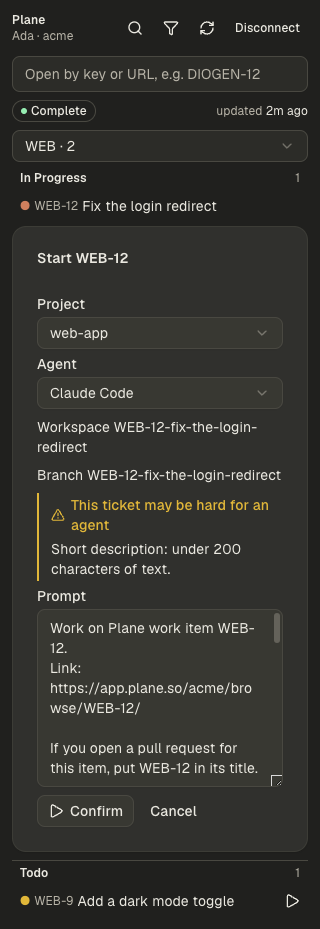
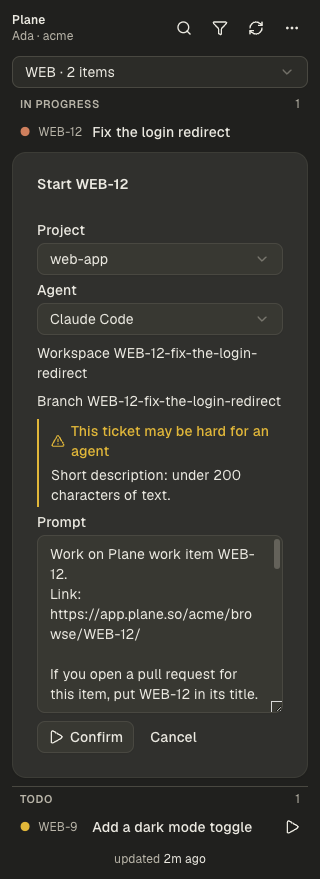
Compact panel: design, proposal and README follow the mockup layout; re-shot screenshots (#66)
design.md P1, P2, P5-P9 and the risks, proposal.md and tasks.md describe the
layout of c4f24e8: Open by key or URL and Disconnect behind the header's ⋯,
the agent state as the row's icon and the detail's Agent field, completeness
named once, the key column, and the detail without the list header. The
README key features and screenshot captions follow; the three README
screenshots are re-shot (dark, 320 px).

diff --git a/openspec/changes/compact-panel-layout/design.md b/openspec/changes/compact-panel-layout/design.md
@@ -1,20 +1,20 @@
 ## Context
 
-The panel layout is design D10 of `add-plane-work-items` (archived 2026-11-17). Issue #66 replaces most of it with the layout the maintainer chose on 2026-11-19. Orca's components panel API sets the limits: no custom CSS, five tones, a pressable `ListItem` cannot hold other controls, a `Box` cannot be pressed, and `Text` has three sizes.
+The panel layout is design D10 of `add-plane-work-items` (archived 2026-11-17). Issue #66 replaces most of it with the layout the maintainer chose on 2026-11-19: mockup A for the list and mockup B for the detail, followed point by point within Orca's components. Orca's components panel API sets the limits: no custom CSS, five tones, a pressable `ListItem` cannot hold other controls, a `Box` cannot be pressed, `Text` has three sizes and no monospace face, `KeyValue` takes only text, and only `danger` colours a button.
 
 ## Goals / Non-Goals
 
 **Goals:** one line per item at sidebar width; a project switcher that never wraps; search and tag filter out of the way until asked for; a detail whose actions sit above the description.
 
-**Non-Goals:** new data (no Plane request is added or changed); new filters; moving the "Open by key or URL" field.
+**Non-Goals:** new data (no Plane request is added or changed); new filters.
 
 ## Decisions
 
 ### P1. Header
-`Plane` and the muted `user · slug` on the left. On the right, on the list: icon buttons Search (`search`), Filter (`filter`) and Refresh (`refresh`), then the Disconnect button. The detail shows only Refresh and Disconnect: Search and Filter act on the list. The Search and Filter icons are named "Show search" / "Hide search" and "Show filters" / "Hide filters" by what they do; the search field keeps the name "Search". An icon whose part is shown is drawn `outline`, otherwise `ghost`.
+`Plane` and the muted `user · slug` on the left. On the right: icon buttons Search (`search`), Filter (`filter`), Refresh (`refresh`) and `⋯` (`more`). The `⋯` toggle shows, under the header, the "Open by key or URL" field, its refusal, and a small ghost Disconnect button; that part stays shown while the field holds text or a refusal. The toggles are named by what they do ("Show search" / "Hide search", "Show filters", "Show actions"); the search field keeps the name "Search". A toggle whose part is shown is drawn `outline`, otherwise `ghost`; one whose part holds a value is disabled, since pressing it could not hide the part. The detail has no list header (P9).
 
 ### P2. Project picker
-One `Select` named "Plane project" (the label is hidden; "Project" is the Orca project of a Start). Options are the projects with listed items, ordered by name, each `<PREFIX> · <n>`, where n counts the project's items that pass the search and the tags. The value, its persistence (`plane.tab`) and the fallback to the first project are those of D10's tabs; only the control changes. A `Select` never wraps, and the count stays visible in the closed picker.
+One `Select` named "Plane project" (the label is hidden; "Project" is the Orca project of a Start). Options are the projects with listed items, ordered by name, each `<PREFIX> · <n> items` (`1 item`), where n counts the project's items that pass the search and the tags. The value, its persistence (`plane.tab`) and the fallback to the first project are those of D10's tabs; only the control changes. A `Select` never wraps, and the count stays visible in the closed picker.
 
 ### P3. Search behind its icon
 The search field shows while the Search icon is toggled on or while the field holds text, so a remembered search is never hidden. The toggle lives in the panel run only. Hiding the field does not clear the text.
@@ -23,25 +23,27 @@ The search field shows while the Search icon is toggled on or while the field ho
 The Filter icon shows a strip of tags under the search: the priorities present in the loaded list (urgent, high, medium, low; none has no tag), then its labels by name, plus any active tag no longer present, so a remembered tag can always be turned off. The list is the whole loaded list, not the selected project, as the filter applies to every project. The strip stays shown while a tag is active. A tag keeps D10's look (a ghost button in a rounded box outlined in its tone, the priority's tone or grey for labels); an active one is filled (its tone, or `accent` for a grey label, since a `muted` fill did not show against the panel, #64) and carries a check icon, which reads as active in both themes whatever the tone.
 
 ### P5. State groups
-A plain header line per state, the state's name in `xs` semibold and its count muted on the right, and a `Separator` between groups. The order is D10's. Groups no longer collapse: the rows are one line each, so a group is short, and a collapsed group hid items without a filter saying so.
+A plain header line per state: the state's name as a level-3 `Heading`, which Orca draws small, upper case and muted, and its count muted on the right; a `Separator` between groups. The order is D10's. Groups no longer collapse: the rows are one line each, so a group is short, and a collapsed group hid items without a filter saying so.
 
 ### P6. One-line row
-A `List` per row holding one pressable `ListItem` (keyed by the item's key) that opens the item, and beside it, outside it, the Start / Open workspace icon button (D10). Inside the `ListItem`, one line: the priority dot `●` in its tone (`○` muted for none), the key in `xs` muted text, the title truncated, then the "Start failed" and agent badges when they apply. Orca has no monospace `Text`; `Code` draws a chip, too heavy for every row, so the key is plain muted text. The row no longer shows its labels or update time: both are in the detail, and the labels are in the filter strip.
+A `List` per row holding one pressable `ListItem` (keyed by the item's key) that opens the item, and beside it, outside it, the Start / Open workspace icon button (D10). Inside the `ListItem`, one line: the priority dot `●` in its tone (`○` muted for none), the key in `xs` muted text in a column as wide as the longest key, and the title in `sm` medium weight, truncated. Orca has no monospace `Text`, and `Code` draws a chip too heavy for every row, so the column is sized at about 7 px a character of the longest key (a `limit:` in the code). The row carries no badges, labels or update time: the labels and update time are in the detail and the labels in the filter strip; the agent state and a failed Start are the icon (P7).
 
-### P7. Agent badge names the agent
-"Agent working", "Agent needs input", "Agent done", tones unchanged. The bare "Done" read as the item's Plane state next to its state group (#62). The wording is the option #62 suggested.
+### P7. Agent state as the row's icon
+The workspace icon of a linked row shows the agent's state: `agent` (working, neutral), `bell` (needs input, warning), `check` (done, success), else `open-external`. It is named "Open workspace · Agent working", "· Agent needs input" or "· Agent done", so the state reads as the agent's, not the item's Plane state (#62). A failed Start draws a danger `warning` icon instead ("Start failed · Start again", or "Open workspace · The agent did not start" when its workspace exists). The detail shows the state as its "Agent" field (P9). A badge on the row left the title two or three words at sidebar width.
 
 ### P8. Completeness named once
-The status line keeps the badge and the update time. The banner of a partial, stale or failed list repeated the badge in its title (#63). A `Callout` without a title still draws Orca's own ("Warning"), so the reason becomes one line of `sm` text in the warning or danger tone.
+No completeness badge. The list shows "updated <relative time>", centred at the bottom, whenever it has data; a complete list shows nothing else about it. A partial, stale or failed list shows one line of `sm` text in the warning or danger tone, `<State> · <reason>` (the reason when there is one), above the list. The badge and the banner of the earlier layout named the state twice (#63); a `Callout` without a title still draws Orca's own "Warning", so the line is plain text.
 
 ### P9. Detail
-From the top: the back control; a muted, framed `Box` with the key (muted) and the priority badge (its tone; "No priority" in grey) on one line, the title as a level-2 heading, and a `KeyValue` of State, Assignees, Labels and Updated; the action row with Start (or Starting…, Checking…, Open workspace) as the primary accent button and Open in Plane as an outline button. Below the action row: the agent badge, a failed Start's banner, an Open workspace error, and the Start confirmation, which replaces the Start button as before. Then the description (framed, Show more / Show less) and the earlier Starts. A closed item shows no Start, as before.
+No list header: the detail starts with a ghost "← All items" button (Orca has no back icon). Then a muted, framed `Box`: the key (muted) on the left and the priority as an outlined pill on the right (a `Box` outlined in its tone with `xs` text; "No priority" in grey; Orca's `Badge` is filled), the title as a level-2 heading, and label/value rows for State, Assignees, Labels, Updated (relative to now) and, when known, Agent ("Working", "Needs input", "Done" in its tone). The rows are `Box`es, since `KeyValue` takes only text and cannot hold a `RelativeTime`. Then the action row: Start work (or Starting…, Checking…, Open workspace) as a `solid` button that fills the row, and an outline button "Plane" with the tooltip "Open in Plane" at its own size. Below it: a failed Start's banner, an Open workspace error, and the Start confirmation, which replaces the Start button as before. Then the description, unframed, with Show more / Show less, and the earlier Starts. A closed item shows no Start, as before.
 
 ## Risks / Trade-offs
 
 - **The row hides labels and update time.** → Both are one press away in the detail; the labels are in the filter strip.
-- **The agent badge is wider.** → The title truncates first; the icon keeps its size, so the row never overflows.
-- **Overlap with PR #65 (`src/panel.check.ts`).** → This change carries #65's scenarios; whichever merges second rebases.
+- **The agent state is an icon only.** → Its tooltip and accessible name spell it out, and the detail names it in words.
+- **Open by key and Disconnect sit behind `⋯`.** → The part stays shown while it holds text or a refusal, so nothing typed is hidden.
+- **Orca draws some of the mockup differently** (as of Orca 1.4.262): an `accent` `IconButton` is not coloured (only `danger` is), a `solid` `Button` is a grey fill rather than the mockup's primary colour, there is no monospace text, no back icon, no fade on a collapsed description, `Select` options are plain text, and the `low` tag's `success` outline draws grey (#64).
+- **Overlap with PR #65 (`src/panel.check.ts`).** → This change carries #65's scenarios; `web-tab` is renamed `web-project`.
 
 ## Migration Plan
 

diff --git a/openspec/changes/compact-panel-layout/proposal.md b/openspec/changes/compact-panel-layout/proposal.md
@@ -1,20 +1,20 @@
 ## Why
 
-The list spends two to four lines on each item (title, a meta line, a row of tags) and wraps each state in a collapsible card, so a narrow sidebar shows about four items. The project switcher wraps into several lines once there are a few projects. The detail opens with a heading and a plain key/value table, with Start at the bottom, after the description (#66). The maintainer compared three mockups and chose a one-line list and a framed detail header (decisions of 2026-11-19, recorded in #66).
+The list spends two to four lines on each item (title, a meta line, a row of tags) and wraps each state in a collapsible card, so a narrow sidebar shows about four items. The project switcher wraps into several lines once there are a few projects. The detail opens with a heading and a plain key/value table, with Start at the bottom, after the description (#66). The maintainer compared three mockups and chose mockup A for the list and mockup B for the detail, then asked for every remaining difference to be closed (decisions of 2026-11-19, recorded in #66).
 
 ## What Changes
 
-- The header carries icon buttons for Search, Filter and Refresh, then Disconnect.
-- The project tabs become one project picker (`Select`); each option reads `<PREFIX> · <n>`, n being the project's matching items. The rules stay: remembered, no all-projects entry, the first project when the remembered one has no items.
+- The header carries icon buttons for Search, Filter, Refresh and `⋯`; the "Open by key or URL" field and Disconnect move behind `⋯` and stay shown while the field holds text or a refusal.
+- The project tabs become one project picker (`Select`); each option reads `<PREFIX> · <n> items`, n being the project's matching items. The rules stay: remembered, no all-projects entry, the first project when the remembered one has no items.
 - The search field opens from the Search icon and stays shown while it holds text.
 - The tags leave the rows. The Filter icon opens a strip of the priorities and labels present in the loaded list, as pressable tags with today's rules; it stays shown while a tag is active. An active tag is filled and checked, so it reads as active in both themes (#64).
-- State groups are plain header lines (state name, count) with a separator between groups, in today's order, and no longer collapse.
-- A row is one line: the priority as a dot in its tone, the key, the truncated title, the Start failed and agent badges when they apply, and the Start / Open workspace icon.
-- The agent badge names the agent: "Agent working", "Agent needs input", "Agent done", so it no longer reads as the item's state (#62).
-- A partial, stale or failed list names its state once: the reason below the badge is one line of text, not a titled banner (#63).
-- The detail opens with a muted, framed header (key and priority badge, title, State, Assignees, Labels, Updated), then an action row (Start or Open workspace, and Open in Plane), then the agent state, a failed Start and the Start confirmation, then the description and the earlier Starts.
+- State groups are small upper-case headers (state name, count) with a separator between groups, in today's order, and no longer collapse.
+- A row is one line: the priority as a dot in its tone, the key in an aligned column, the truncated title, and the Start / Open workspace icon. No badges: the icon shows the agent's state (agent, bell, check) and a failed Start (a danger warning), and is named for it.
+- The agent state is named as the agent's: "Agent working", "Agent needs input", "Agent done" on the row's icon, an "Agent" field in the detail, so it no longer reads as the item's state (#62).
+- No completeness badge: a complete list shows "updated …" at the bottom; a partial, stale or failed list names its state once, as one line `<State> · <reason>` in its tone (#63).
+- The detail drops the list header and opens with "← All items", then a muted, framed header (key, an outlined priority pill, title, State, Assignees, Labels, Updated relative to now, Agent), then an action row (Start work or Open workspace filling the row, and a "Plane" button named "Open in Plane"), then a failed Start and the Start confirmation, then the description, unframed, and the earlier Starts.
 
-Out of scope: the "Open by key or URL" field stays where it is, always shown; any change to how the list is fetched, sorted or filtered.
+Out of scope: any change to how the list is fetched, sorted or filtered.
 
 ## Capabilities
 
@@ -22,10 +22,10 @@ Out of scope: the "Open by key or URL" field stays where it is, always shown; an
 
 ### Modified Capabilities
 
-- `plane-work-items`: the project tabs become a project picker; state groups no longer collapse; tags move from the rows to a filter strip; the search field may sit behind a toggle; the row and the detail get a compact layout; the agent badge names the agent.
+- `plane-work-items`: the project tabs become a project picker; state groups no longer collapse; tags move from the rows to a filter strip; the search field may sit behind a toggle; the row and the detail get a compact layout; the agent state shows as the row's icon and the detail's Agent field; completeness is named once; Open by key or URL may sit behind a header control.
 
 ## Impact
 
-- `src/panel.tsx`: header, project picker, search and filter toggles, filter strip, group headers, one-line rows, framed detail header and action row, agent badge labels, completeness banner.
+- `src/panel.tsx`: header and its `⋯` part, project picker, search and filter toggles, filter strip, group headers, one-line rows with the agent state icon, framed detail header and action row, completeness line.
 - `src/panel.check.ts`: the rendered scenarios, including the row decorations and the detail of a linked item (it folds in the scenarios of PR #65).
 - `src/panel.test.tsx`: the list, tab, tag, group and detail tests follow the new layout.

diff --git a/README.md b/README.md
@@ -32,9 +32,9 @@ one waits for you. The plugin only **reads** Plane, and its token never reaches 
 affiliated with Plane.
 
 <p align="center">
-  <img alt="The Plane panel on the WEB project: one line per item under its state, each with its priority dot, key and title, and the agent badges of the items you started" src="docs/screenshots/plane-web-project.png" width="32%">
+  <img alt="The Plane panel on the WEB project: one line per item under its state, each with its priority dot, key and title, and on the items you started an icon for the agent's state" src="docs/screenshots/plane-web-project.png" width="32%">
   &nbsp;
-  <img alt="The Plane panel showing WEB-12 Fix the login redirect: a framed header with its key, priority, state, assignees, labels and update time, then Open workspace and Open in Plane, the agent badge, the framed description and the earlier Starts of the item" src="docs/screenshots/plane-detail-linked.png" width="32%">
+  <img alt="The Plane panel showing WEB-12 Fix the login redirect: a framed header with its key, priority, state, assignees, labels, update time and agent state, then Open workspace and the Plane button, the description and the earlier Starts of the item" src="docs/screenshots/plane-detail-linked.png" width="32%">
   &nbsp;
   <img alt="The Start confirmation for WEB-12: the Orca project, the agent, the workspace and branch name, readiness hints and the prompt the agent gets" src="docs/screenshots/plane-confirm.png" width="32%">
   <br>
@@ -64,17 +64,19 @@ affiliated with Plane.
 
 * **One line per item**: a picker switches between Plane projects and counts their items; items are
   grouped by state (started, then unstarted, then backlog), newest update first, each with its
-  priority dot, key and title. The Search icon opens a search by key, title or label; the Filter icon
-  opens the priority and label tags, and pressing one filters by it.
-* **Honest about gaps**: the list says whether it is complete, partial (the item cap was reached or
-  a page failed) or stale (the last refresh failed), and the status bar shows `?` instead of a
+  priority dot, key and title; on an item you started, the workspace icon shows the agent's state.
+  The Search icon opens a search by key, title or label; the Filter icon opens the priority and
+  label tags, and pressing one filters by it; `⋯` holds Open by key or URL and Disconnect.
+* **Honest about gaps**: a complete list shows when it was updated; a partial one (the item cap was
+  reached or a page failed) or a stale one (the last refresh failed) says so, with the reason, and the status bar shows `?` instead of a
   wrong count.
 * **Fast and gentle on Plane**: the panel shows the last known list at once and refreshes it in the
   background (every 10 minutes by default). On a rate limit it retries once, only for a wait of 30
   seconds or less.
 * **Item detail**: a framed header with the key, priority, title, state, assignees, labels and last
-  update, then Start (or Open workspace) and Open in Plane, then the description (a long one folds). **Open by key or URL** finds any item of the workspace, also one
-  assigned to someone else or closed.
+  update and the agent's state, then Start work (or Open workspace) and the Plane button, which opens
+  the item in Plane, then the description (a long one folds). **Open by key or URL**, behind `⋯`,
+  finds any item of the workspace, also one assigned to someone else or closed.
 
 ### 🤖 Start an agent on an item
 > *One confirmation turns a ticket into a workspace, a branch and a running agent.*
@@ -94,7 +96,7 @@ affiliated with Plane.
 > *The panel and the status bar tell you which agent needs you, and take you there.*
 
 * **Agent state on the item**: Agent working, Agent needs input or Agent done, from the agent in the
-  item's workspace.
+  item's workspace: the row's workspace icon (agent, bell, check) and the detail's Agent field.
 * **Status bar**: your open items and the agents that wait (`12 · 2 waiting`); a click toggles the
   sidebar.
 * **Follow the workspace**: switching to a workspace started from an item shows that item, even after

diff --git a/openspec/changes/compact-panel-layout/tasks.md b/openspec/changes/compact-panel-layout/tasks.md
@@ -2,11 +2,11 @@
 
 ## 1. List
 
-- [x] 1.1 Header icons Search, Filter, Refresh, then Disconnect; the search field behind its icon (P1, P3). Verify: `src/panel.test.tsx` covers the toggle, a remembered search keeping the field shown, and the detail without the two icons.
+- [x] 1.1 Header icons Search, Filter, Refresh and `⋯` (Open by key or URL, Disconnect); the search field behind its icon (P1, P3). Verify: `src/panel.test.tsx` covers the toggle, a remembered search keeping the field shown, and the detail without the two icons.
 - [x] 1.2 Project picker `Select` with counts (P2). Verify: the tab tests in `src/panel.test.tsx` read the picker's options and value; remembered and fallback cases pass.
 - [x] 1.3 Filter strip with active fill and check (P4). Verify: `src/panel.test.tsx` covers the strip's tags, a remembered tag keeping it shown, a remembered tag no longer present, and the fill of an active label.
-- [x] 1.4 Plain group headers with counts and separators (P5); one-line rows with dot, key, title, badges and icon (P6). Verify: the group order test and a row test in `src/panel.test.tsx`.
-- [x] 1.5 Agent badge labels (P7); the completeness reason as a line of text (P8). Verify: the agent state and completeness tests in `src/panel.test.tsx`.
+- [x] 1.4 Plain group headers with counts and separators (P5); one-line rows with dot, key column, title and icon (P6). Verify: the group order test and a row test in `src/panel.test.tsx`.
+- [x] 1.5 Agent state as the row's icon and the detail's Agent field (P7); completeness named once (P8). Verify: the agent state and completeness tests in `src/panel.test.tsx`.
 
 ## 2. Detail
 
@@ -14,7 +14,7 @@
 
 ## 3. Check
 
-- [x] 3.1 `src/panel.check.ts` scenarios show the new layout at sidebar width, with the row decorations of PR #65 (`web-tab`, `tags`, `detail-linked`, `start-failed`) and a filter-open scenario. Verify: `bin/check` exits 0; `orca plugin shot . --scenario <name> --width 320` for the list, tags, partial and detail scenarios looks right.
+- [x] 3.1 `src/panel.check.ts` scenarios show the new layout at sidebar width, with the row decorations of PR #65 (`web-project`, `tags`, `detail-linked`, `start-failed`) and a filter-open scenario. Verify: `bin/check` exits 0; `orca plugin shot . --scenario <name> --width 320` for the list, tags, partial and detail scenarios looks right.
 - [x] 3.2 `openspec validate --all` passes.
 
 ## Workflow follow-up
